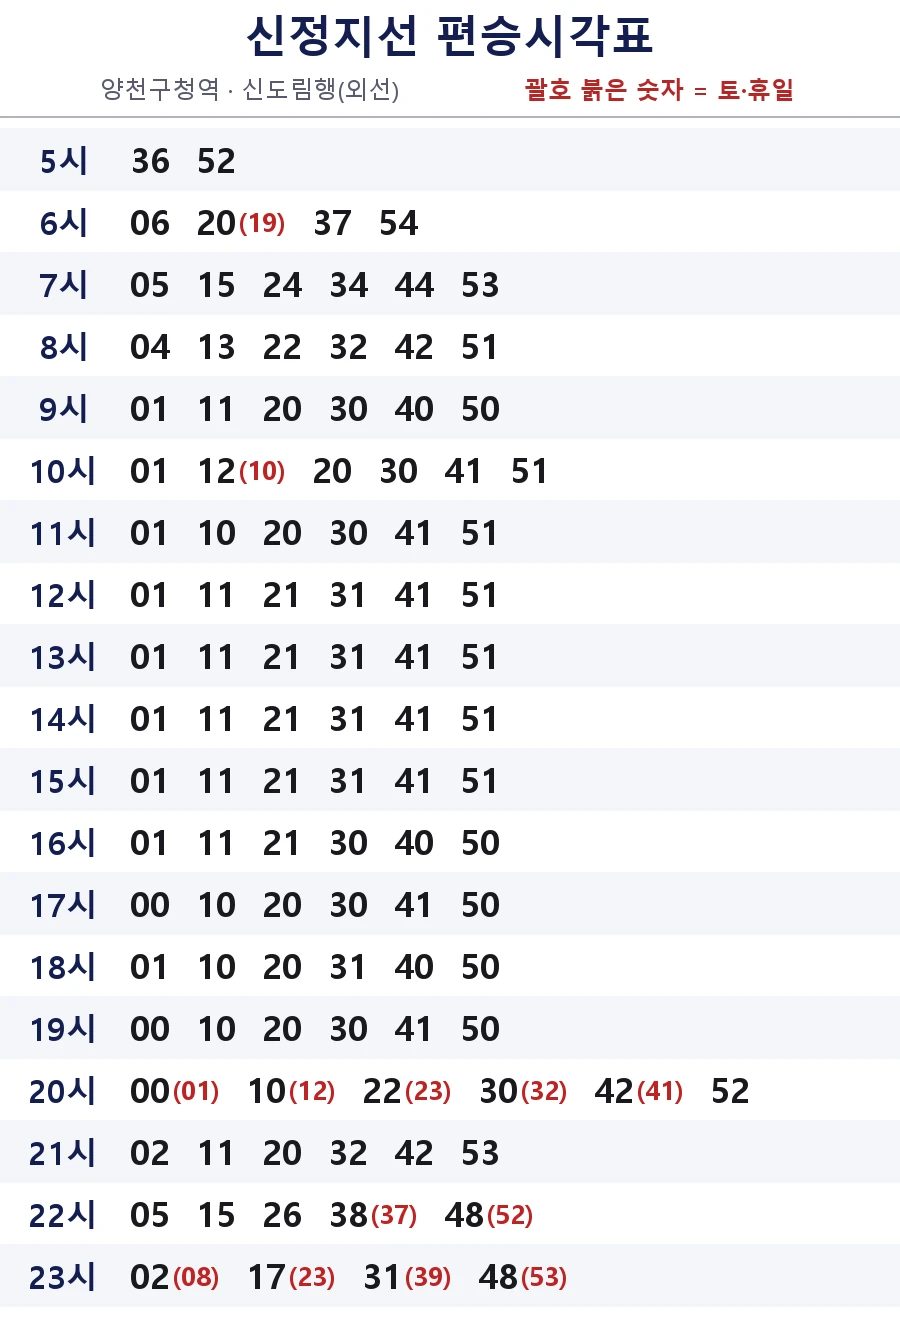
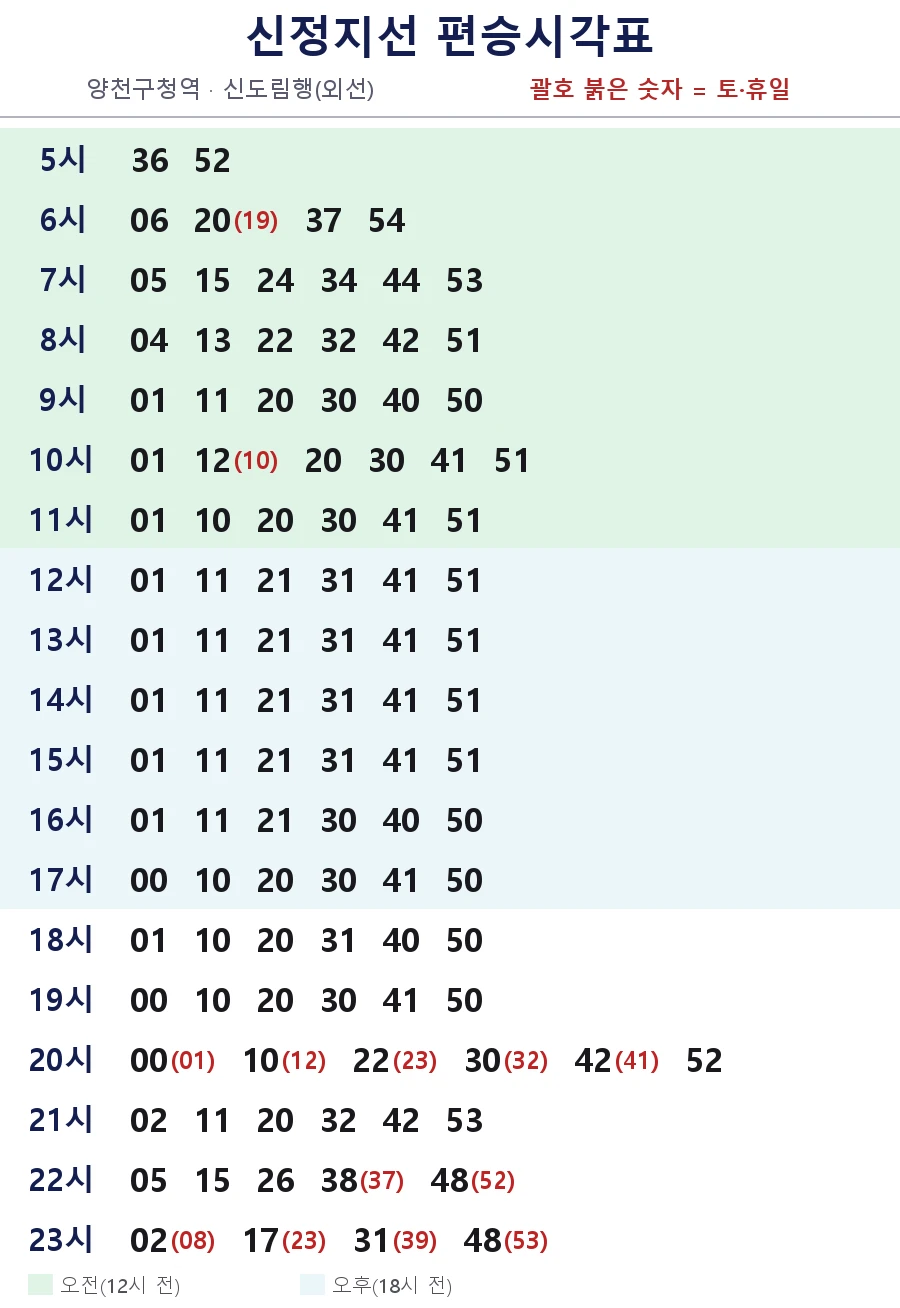
fix: 편승시각표 23시까지 여백확보+오전(녹)/오후(청록) 구분, 헤더 상단공백 제거(statusBarsPadding 미적용)·11sp

Changed region(s): [[0.0, 0.0306, 1.0, 1.0], [0.56, 0.0612, 0.9022, 0.0917]]

diff --git a/app/src/main/java/com/sinjeong/crewcalendar/presentation/calendar/MainCalendarScreen.kt b/app/src/main/java/com/sinjeong/crewcalendar/presentation/calendar/MainCalendarScreen.kt
@@ -89,13 +89,13 @@ fun MainCalendarScreen(
             // 컴팩트 헤더(기본 TopAppBar 64dp → 40dp) — 남는 상단 공간을 달력에 양보
             Surface(color = MaterialTheme.colorScheme.surface) {
                 Row(
-                    Modifier.fillMaxWidth().statusBarsPadding().height(30.dp)
-                        .padding(horizontal = 10.dp),
+                    // 상단 공백 제거 — 상태바와 겹쳐도 됨(사용자 요청). statusBarsPadding 미적용
+                    Modifier.fillMaxWidth().height(30.dp).padding(horizontal = 10.dp, vertical = 2.dp),
                     verticalAlignment = Alignment.CenterVertically,
                 ) {
                     Text(
                         state.month.format(DateTimeFormatter.ofPattern("yy년 M월")),
-                        fontSize = 13.sp,
+                        fontSize = 11.sp,
                         fontWeight = FontWeight.ExtraBold,
                         maxLines = 1,
                         softWrap = false,
